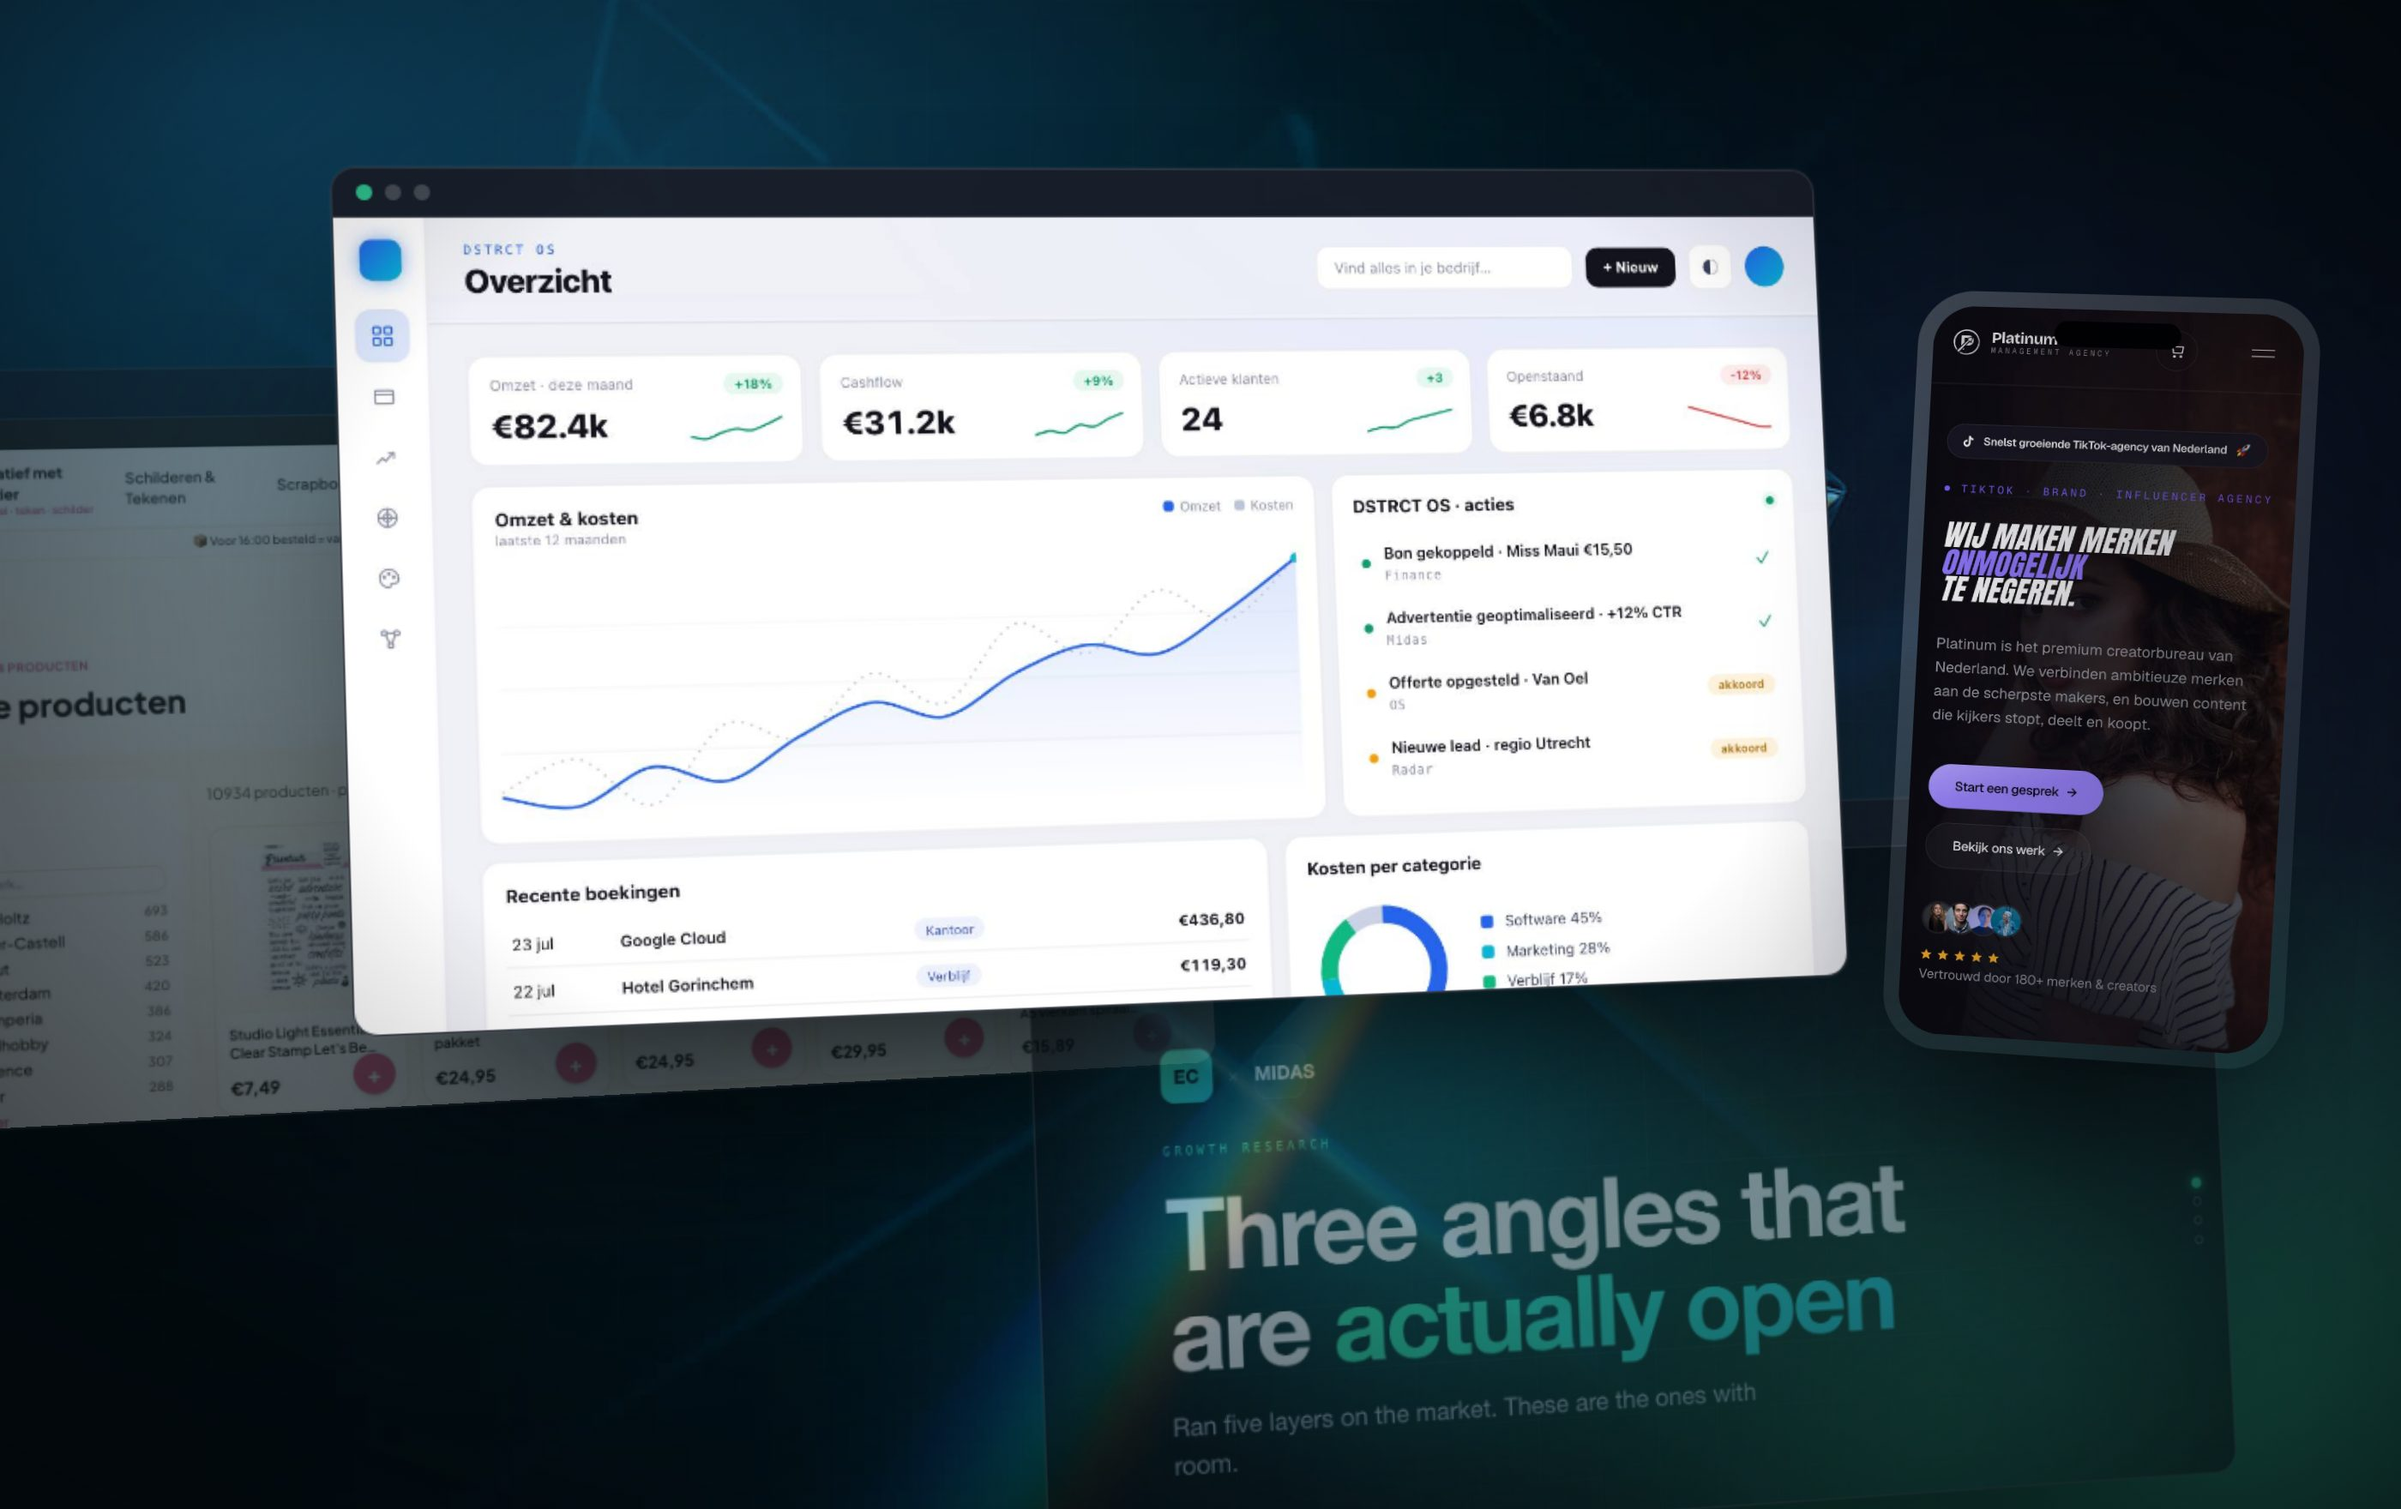
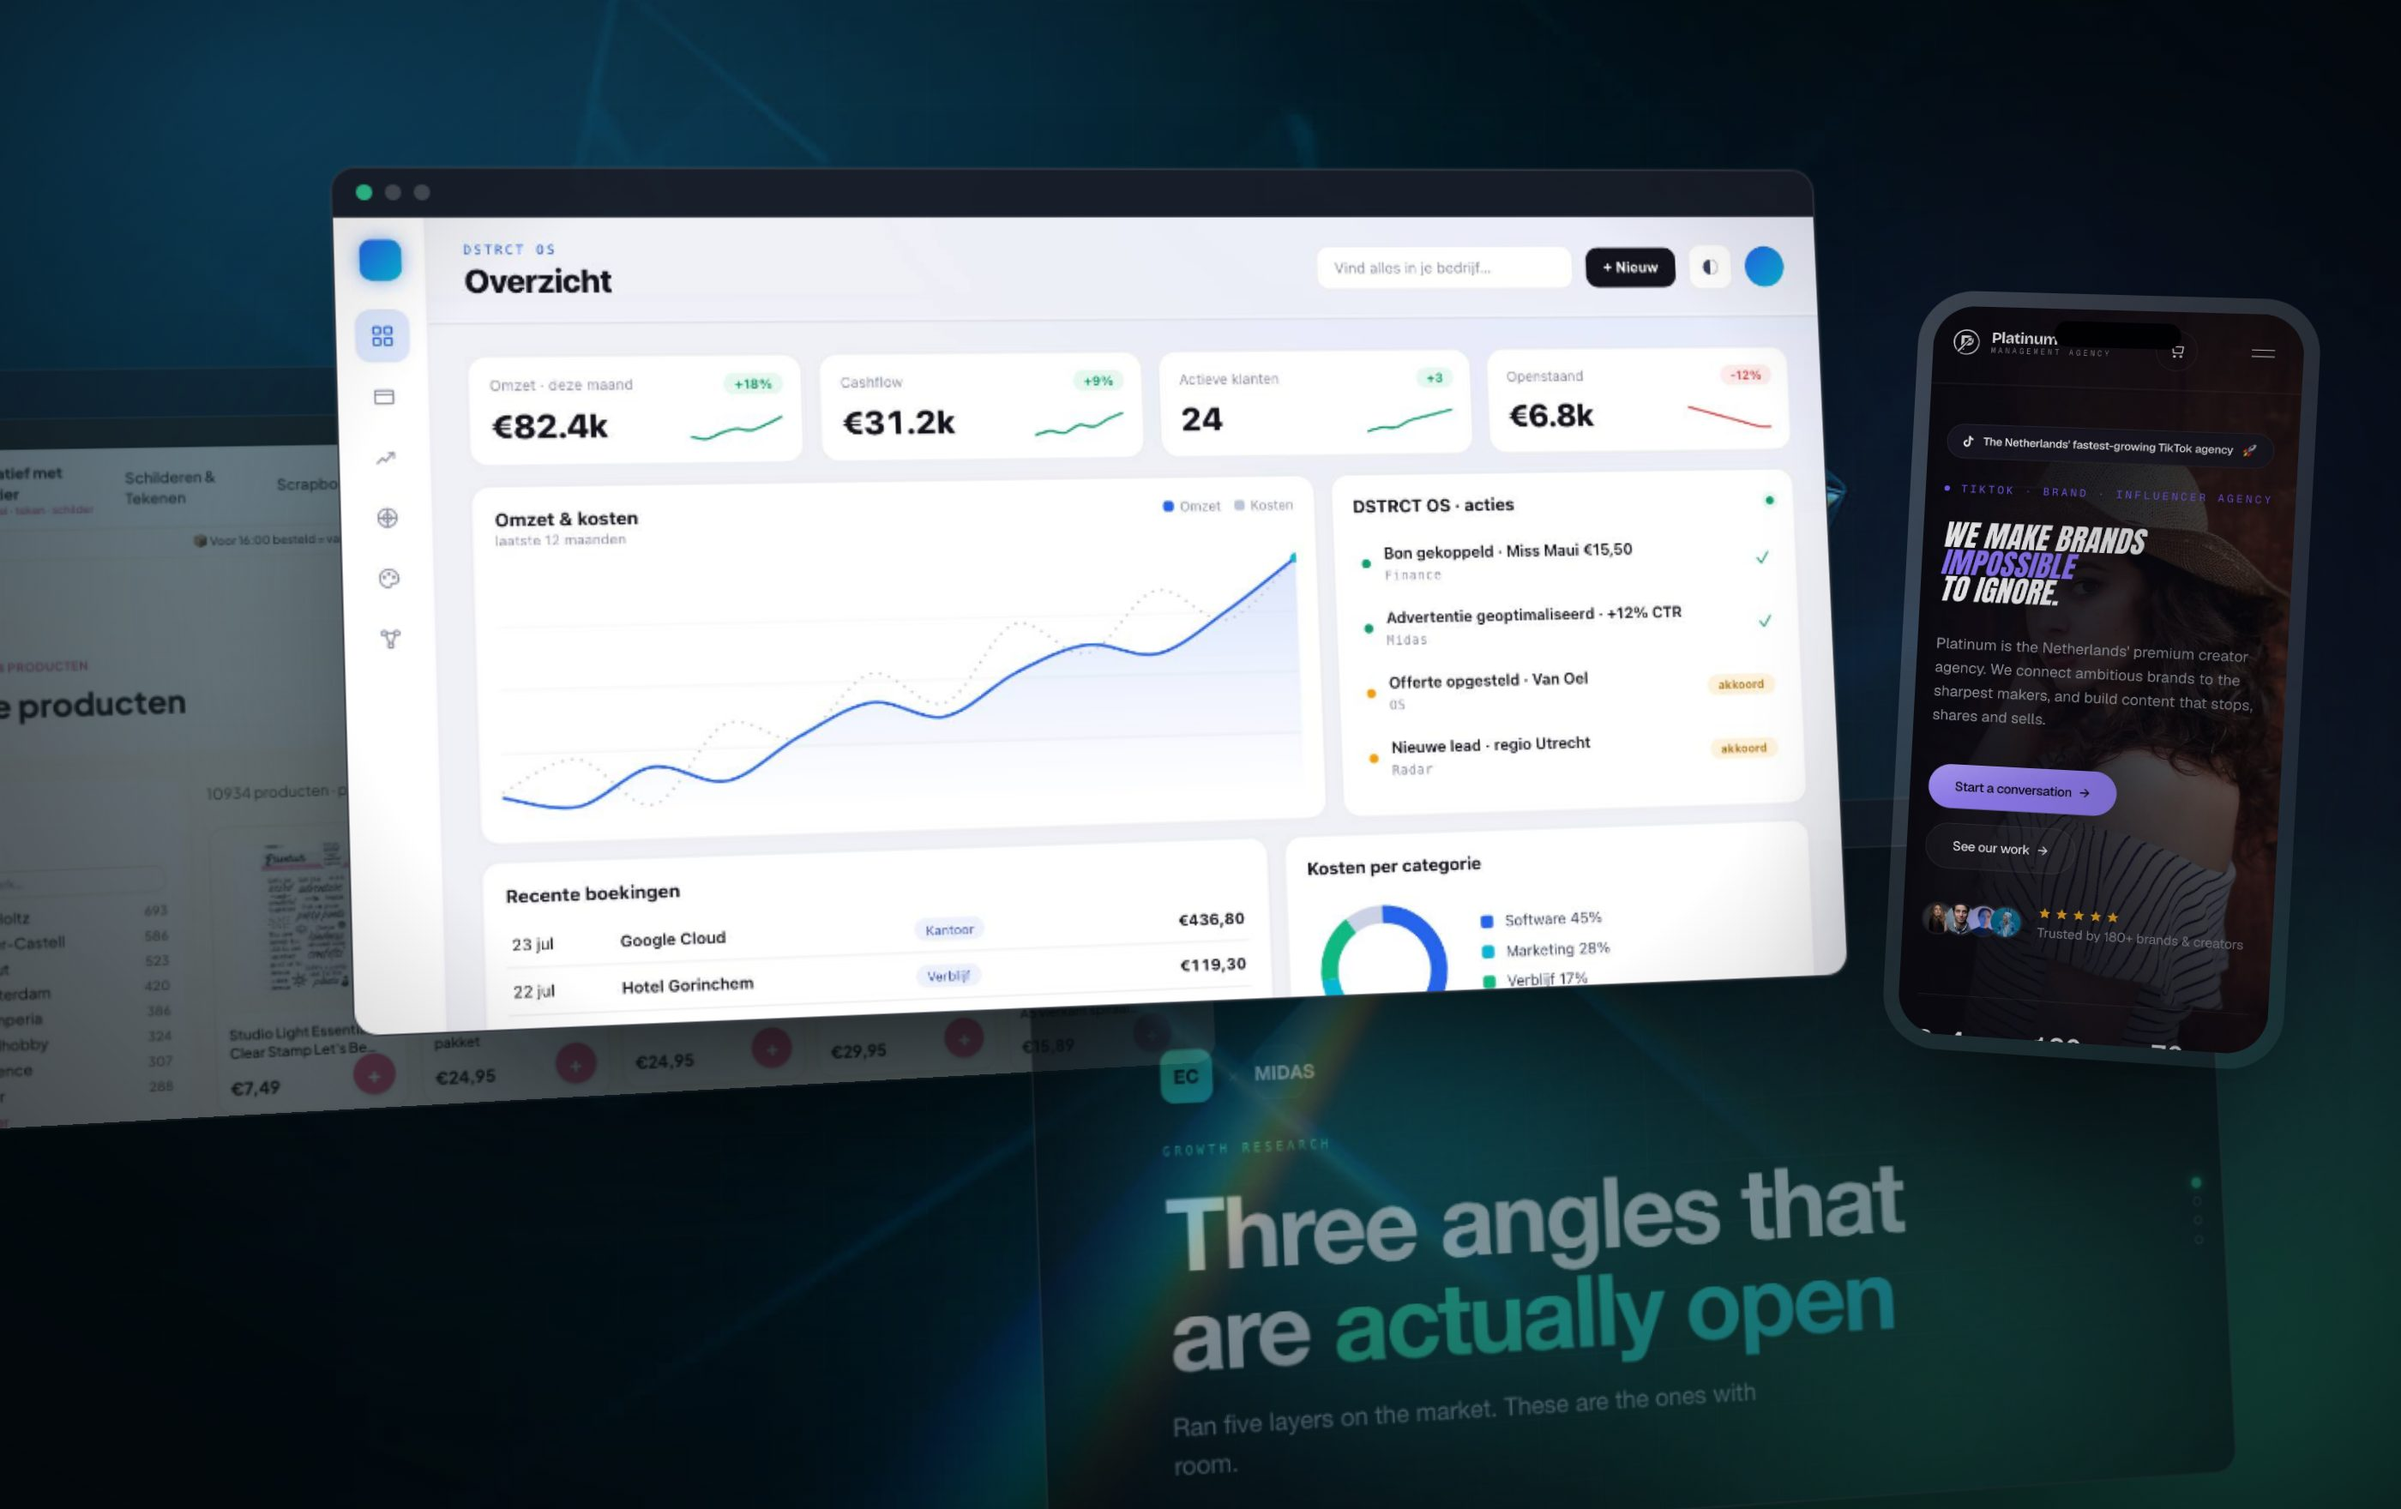
fix: the last Dutch, and two numbers that were wrong
- unknown project page title was still Dutch
- stats counted up with Dutch number formatting, which also broke decimals:
  0.85 rendered as 85 because the dot was stripped as a thousands separator.
  Commas group thousands now, the dot stays decimal.
- Platinum screenshots recaptured on its English routes
- the Dutch products stay Dutch in their screenshots, and the caption now
  says why, so it reads as a choice rather than an oversight

Changed region(s): [[0.8079, 0.3438, 0.9632, 0.5312], [0.8079, 0.5625, 0.9321, 0.6875], [0.8389, 0.2812, 0.9321, 0.3125]]

diff --git a/src/components/Preview.tsx b/src/components/Preview.tsx
@@ -70,7 +70,7 @@ export const SHOTS: Record<string, Shot[]> = {
     { file: "midas--deck-competitors.jpg", label: "who takes the clicks", note: "The two competitors and you, with the opening under each. The red line is where you stand." },
   ],
   "dstrct-crm": [
-    { file: "dstrct-crm--cockpit.jpg", label: "seller cockpit", kind: "desktop", note: "Where a seller lands. Describe a client in plain language, or add one by voice, and the AI proposes the quote." },
+    { file: "dstrct-crm--cockpit.jpg", label: "seller cockpit", kind: "desktop", note: "Where a seller lands. Describe a client in plain language, or add one by voice, and the AI proposes the quote. The screens are Dutch because the team using it is." },
     { file: "dstrct-crm--prices.jpg", label: "prices and commission", note: "The seller view: sale price and their own commission per service. No cost price anywhere, because the server strips it." },
     { file: "dstrct-crm--quotes.jpg", label: "quotes", note: "The quote pipeline, from new through called, interested, quoted, agreed." },
     { file: "dstrct-crm--salesaid.jpg", label: "sales aid", note: "The answers to the objections a seller actually gets, in the tool instead of in a document nobody opens." },
@@ -94,14 +94,14 @@ export const SHOTS: Record<string, Shot[]> = {
     { file: "os-demo--mobile.jpg", label: "on a phone", kind: "phone", note: "Light and dark, and it holds up at 390 pixels wide." },
   ],
   platinum: [
-    { file: "platinum--home.jpg", label: "home", note: "Dark with electric violet and heavy italic poster headlines. Bilingual from the route up." },
+    { file: "platinum--home.jpg", label: "home", note: "Dark with electric violet and heavy italic poster headlines. Bilingual from the route up, so this is the English side of the same site." },
     { file: "platinum--roster.jpg", label: "creator roster", note: "Ten creator profiles with follower counts and a booking form behind each." },
     { file: "platinum--creators.jpg", label: "for creators", note: "The recruitment side, with TikTok attributes on the signup." },
     { file: "platinum--cases.jpg", label: "cases", note: "The proof pages, structured data included so they are crawlable." },
     { file: "platinum--mobile.jpg", label: "on a phone", kind: "phone", note: "Where an agency's audience actually looks." },
   ],
   "creatief-met-plezier": [
-    { file: "creatief-met-plezier--home.jpg", label: "storefront", note: "The live shop. Warm palette, workshops and packages beside the catalogue." },
+    { file: "creatief-met-plezier--home.jpg", label: "storefront", note: "The live shop, in Dutch because it sells to the Netherlands. Warm palette, workshops and packages beside the catalogue." },
     { file: "creatief-met-plezier--shop.jpg", label: "10.934 products", note: "The full catalogue with brand and technique filters that finally tell the truth about what is in them." },
     { file: "creatief-met-plezier--workshops.jpg", label: "workshops", note: "Sessions and seats, managed by the owner herself from the back office." },
     { file: "creatief-met-plezier--mobile.jpg", label: "on a phone", kind: "phone", note: "Most of this shop's traffic." },

diff --git a/src/components/CountUp.tsx b/src/components/CountUp.tsx
@@ -2,13 +2,13 @@
 
 import { useEffect, useRef, useState } from "react";
 
-// A stat like "11.400" counts up; a stat like "~28" or "0.85" that is not cleanly numeric is shown
-// as written. Never reformat a value into something the source did not say.
+// A stat like "11,400" counts up and "0.85" keeps its decimals; something like "~28" or "1-10"
+// is shown exactly as written. Never reformat a value into something the source did not say.
 export function parseStat(raw: string): { value: number; prefix: string; suffix: string; dec: number } | null {
   const m = raw.match(/^([^\d-]*)(-?\d[\d.]*(?:,\d+)?)(.*)$/);
   if (!m) return null;
   const [, prefix, digits, suffix] = m;
-  const normalised = digits.replace(/\./g, "").replace(",", ".");
+  const normalised = digits.replace(/,/g, ""); // commas group thousands, the dot stays decimal
   const value = Number(normalised);
   if (!isFinite(value)) return null;
   const dec = normalised.includes(".") ? normalised.split(".")[1].length : 0;
@@ -43,7 +43,7 @@ export function CountUp({ raw }: { raw: string }) {
             const v = parsed.value * eased;
             setText(
               parsed.prefix +
-                v.toLocaleString("nl-NL", { minimumFractionDigits: parsed.dec, maximumFractionDigits: parsed.dec }) +
+                v.toLocaleString("en-GB", { minimumFractionDigits: parsed.dec, maximumFractionDigits: parsed.dec }) +
                 parsed.suffix
             );
             if (p < 1) frame = requestAnimationFrame(tick);

diff --git a/src/app/p/[slug]/page.tsx b/src/app/p/[slug]/page.tsx
@@ -14,7 +14,7 @@ export function generateStaticParams() {
 export async function generateMetadata({ params }: { params: Promise<{ slug: string }> }): Promise<Metadata> {
   const { slug } = await params;
   const p = getProject(slug);
-  if (!p) return { title: "Niet gevonden · DSTRCT Build Board" };
+  if (!p) return { title: "Not found · DSTRCT Build Board" };
   return { title: `${p.name} · DSTRCT Build Board`, description: p.tagline };
 }
 

diff --git a/src/content/projects.ts b/src/content/projects.ts
@@ -651,7 +651,7 @@ export const PROJECTS: Project[] = [
     family: "Client work",
     accent: { cyan: "#FF8A65", blue: "#E85A4F" },
     stats: [
-      { n: "11.400", l: "products migrated" },
+      { n: "11,400", l: "products migrated" },
       { n: "642", l: "records cleaned" },
       { n: "6", l: "cafe packages live" },
     ],
